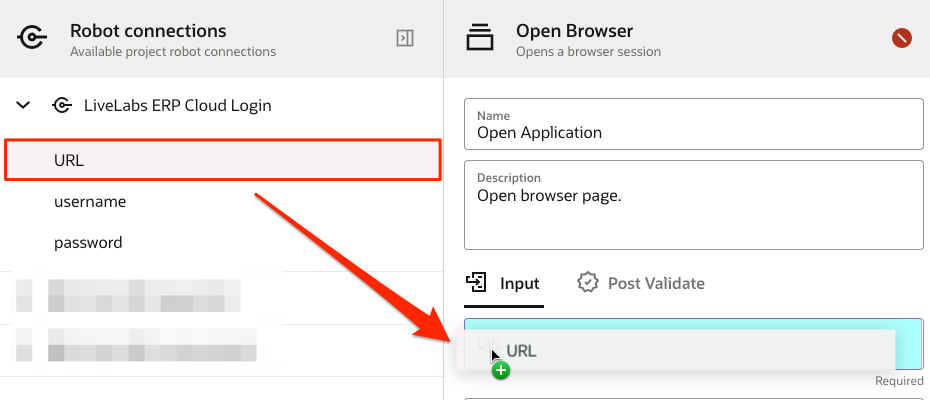
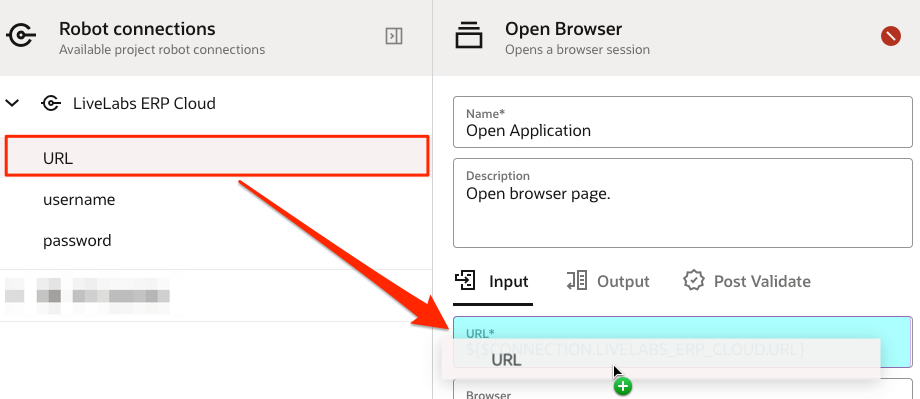
RPA updates

diff --git a/oic-gen3/experiential/get-started-rpa/workshops/tenancy/index.html b/oic-gen3/experiential/get-started-rpa/workshops/tenancy/index.html
@@ -1,0 +1,62 @@
+<!DOCTYPE html>
+<html lang="en">
+
+<head>
+    <meta charset="utf-8">
+    <meta http-equiv="X-UA-Compatible" content="IE=edge">
+    <meta name="viewport" content="width=device-width, initial-scale=1">
+    <meta name="description" content="Oracle LiveLabs gives you access to Oracle's products to run a wide variety of labs and workshops; allowing you to experience our best technology, live!">
+    <title>Oracle LiveLabs</title>
+
+    <script src="https://oracle-livelabs.github.io/common/redwood-hol/js/jquery-1.11.0.min.js"></script>
+    <script src="https://oracle-livelabs.github.io/common/redwood-hol/js/jquery-ui-1.10.4.custom.js"></script>
+    <script src="https://oracle-livelabs.github.io/common/redwood-hol/js/main.min.js"></script>
+
+    <link rel="stylesheet" href="https://oracle-livelabs.github.io/common/redwood-hol/css/style.min.css" />
+    <link rel="shortcut icon" href="https://oracle-livelabs.github.io/common/redwood-hol/img/favicon.ico" />
+</head>
+
+<body>
+    <header class="hol-Header" role="banner">
+        <div class="hol-Header-wrap">
+            <div class="hol-Header-logo"><span>Oracle LiveLabs</span></div>
+            <a href="https://oracle.com/livelabs" target="_blank" id="livelabs" title="Oracle LiveLabs"></a>
+            <div class="hol-Header-actions">
+                <button id="openNav" class="hol-Header-button hol-Header-button--menu rightNav" aria-label="Open Menu"
+                    title="Open Menu">
+                    <span class="hol-Header-toggleIcon"></span>
+                </button>
+            </div>
+        </div>
+    </header>
+
+    <div id="container">
+        <div id="leftNav">
+            <div id="toc"></div>
+        </div>
+        <div id="contentBox">
+            <main class="hol-Content" id="module-content"></main>
+        </div>
+    </div>
+
+      <footer class="hol-Footer">
+        <a class="hol-Footer-topLink" href="#top">Return to Top</a>
+        <div id="footer-banner"><div class="footer-row">
+          <div class="footer-content"><ul class="footer-links">
+              <li><a href="https://docs.oracle.com/pls/topic/lookup?ctx=en/legal&id=cpyr" target="_blank" aria-label="Open a new window to Oracle legal notices" data-lbl="copyright">© Oracle</a></li>
+              <li><a href="https://www.oracle.com/corporate/index.html" target="_blank" aria-label="Open a new window to learn more about oracle" data-lbl="about-oracle">About Oracle</a></li>
+              <li><a href="https://www.oracle.com/corporate/contact/" target="_blank" aria-label="Open a new window to contact oracle" data-lbl="contact-us">Contact Us</a></li>
+              <li class="footer-links-break"></li>
+              <li><a href="https://docs.oracle.com/en/browseall.html" target="_blank" aria-label="Open a new window to products a-z" data-lbl="products-a-z">Products A-Z</a></li>
+              <li><a href="https://www.oracle.com/legal/privacy/" target="_blank" aria-label="Open a new window to read more about Oracle terms of use and privacy" data-lbl="terms-of-use-and-privacy">Terms of Use & Privacy</a></li>
+              <li><a href="https://www.oracle.com/legal/privacy/privacy-policy.html#11" target="_blank" aria-label="Open a new window to read more about managing Oracle cookie preferences" data-lbl="cookie-preferences">Cookie Preferences</a></li>
+              <li><a href="https://www.oracle.com/legal/privacy/marketing-cloud-data-cloud-privacy-policy.html#adchoices" target="_blank" aria-label="Open a new window to ad choices" data-lbl="ad-choices">Ad Choices</a></li>
+              <li class="footer-links-break"></li><li class="last"><a href="https://docs.oracle.com/pls/topic/lookup?ctx=en/legal&id=cpyr" target="_blank" aria-label="Open a new window to Oracle legal notices" data-lbl="copyright">© Oracle</a></li>
+            </ul>
+          </div>
+        </div>
+      </div>
+    </footer>
+</body>
+
+</html>

diff --git a/oic-gen3/experiential/get-started-rpa/create-robot-flow/create-robot-flow.md b/oic-gen3/experiential/get-started-rpa/create-robot-flow/create-robot-flow.md
@@ -12,6 +12,7 @@ In this lab, you will:
 This lab assumes you have:
 
 * Completed the Robot Connections
+* A Chrome browser
 
 ## Task 1: Create a Robot
 
@@ -31,7 +32,8 @@ When you create a robot, you define its trigger and the actions that the robot p
     | Keywords      | No  | Enter text that people might use to search for the robot. |
     | | | |
 
-    ![Create robot flow panel](images/create-robot-add.png " ")
+    | ![Create robot flow panel](images/create-robot-add.png " ") |
+    |-|
 
 4. Click **Create**.
 
@@ -58,62 +60,142 @@ The trigger defines the interface for the robot, including the input (incoming r
 
 4. Click **OK**.
 
-
-
 ## Task 3: Define Open Application Action
 
-This action tells the robot to open a web browser and navigate to the Oracle ERP Cloud sign-in page. We will define a Robot Connection, based on a Robot Connection Type, containing the URL and credentials to the ERP Cloud login page.
+This action tells the robot to open a web browser and navigate to the Oracle ERP Cloud sign-in page. We will use the robot connection created in the previous lab to pull the service URL and credentials.
 
 1. Double-click on the **Open Application** action.
 
-    ![Select robot connections button](images/robot-designer_open-browser_edit.png " ")
+    | ![Select robot connections button](images/robot-designer_open-browser_edit.png " ") |
+    |-|
 
 2. In the **Open Browser** panel, keep the default values for **Name** and **Description**.
 
 3. We will assign the target URL dynamically using a Robot Connection. On the **Input** tab, select within the **URL** field and click on the **Robot connections** icon ![Select robot connections button](images/robot-connections-button.png " ").
 
-    The **Robot connections** side panel will appear, without any available robot connections.
+    The **Robot connections** side panel will appear, with the previously created robot connection.
 
-4. On the **Robot connections** side panel, create a new connection to the target page by clicking on **+ (Add)**.
-
-5. On the **Create robot connection** panel, select the Default connection type **Oracle RPA Web Login**.
-
-    ![Create robot flow panel](images/create-robot-connection_select-type.png " ").
-
-6. In the **Create robot connection - Oracle RPA web login** panel, fill in the following fields:
-    | **Field** | **Required** | **Value** |
-    | --- | ----------- | ----------- |
-    | Name        | Yes | Enter a name for the login page. <br> For example: `LiveLabs ERP Cloud Login` |
-    | Identifier  | Yes | This entry is autogenerated based on the Name value.  |
-    | Description | No  | Provide additional information about the robot connection.|
-    | URL         | Yes | Enter your ERP Cloud login URL. Please follow this format: <br>`https://<your-erp-cloud-hostname>/fscmUI/faces/FuseWelcome?fndThemeName=Vision_Default`  |
-    | Username    | Yes  | Enter a valid ERP username.|
-    | Password    | Yes  | Enter a valid ERP password for the selected user. |
-    | | | |
-
-    ![Create robot flow panel](images/create-robot-connection_configured.png " ")
-
-7. Click **Create**.
-
-8. Returning to the **Robot connections** side panel, expand the newly created Robot Connection. Next, drag the **URL** parameter to the matching field under the **Input** tab.
+4. Returning to the **Robot connections** side panel, expand the newly created Robot Connection. Next, drag the **URL** parameter to the matching field under the **Input** tab.
 
     ![Drag the URL parameter to the Input tab](images/robot-designer_open-browser_assign-url.png " ")
 
-9. Under **Browser**, select the browser which will be used by the robot flow. Keep all other values as default.
+5. Under **Browser**, select the browser which will be used by the robot flow. Keep all other values as default.
 
-10. Click **OK** when done, then **Save**.
+6. Click **OK** when done, then **Save**.
 
-## Task 4: Add Robot Login Action using the Record option
+## Task 4: Install the Robot Recorder
+
+The robot recorder is a Google Chrome browser plugin that is used to build robot flows. This extension must be installed to continue with this workshop.
+
+1. From the Robot designer, click on the red **Update** button
+
+2. Click the button **Download browser extension**.
+    ![Click extension Update button](images/robot-designer_update-browser-extension.png " ")
+
+    The extension file (ZIP) is downloaded to the default downloads folder.
+
+3. Navigate to the location where the ZIP file downloaded, such as your **Downloads** folder.
+
+4. Extract the ZIP file in the same folder.
+
+5. In Google Chrome, open the **Extensions** menu, and select **Manage Extensions**.
+
+6. On the Google Chrome Extensions page, select **Load unpacked**.
+
+7. Navigate to the folder containing the unzipped files, select the *target* folder, and click on **Select Folder**.
+
+    This loads the Robot Extension in your Chrome browser.
+
+    ![Show loaded Robot Extension in Chrome browser](images/robot-designer_loaded-browser-extension.png)
+
+After installing the browser extension, we can start adding robot actions.
+
+## Task 5: Add Login Action
+
+Start the robot flow by adding the Login action.
+
+1. On the Robot Designer canvas, hover over the **Open Application** action and click on the **+** which appears below it.
+![Add Open Application action](images/robot-designer_open-application_add-action.png " ")
+
+    A menu of available actions appears.
+
+2. From the **Actions** tab, select the **Login** action.
+![Add Login action](images/robot-designer_open-application_add-login.png " ")
+
+    The **Login** action appears on the canvas.
+
+3. On the **Login** panel, within the **Username** field, select **Robot connections**
+![Select robot connections](images/robot-connections-button.png "=20x*"). On the Robot connections side panel, expand the created robot connection and drag the `username` parameter to the **Username** field.
+![Assign username](images/robot-designer_login_assign-username.png "")
+
+4. Repeat these steps by dragging the `password` parameter to the **Password** field.
+
+    Next, we will specify input details for Username and Password actions.
+
+5. In another browser window, open the sign-in page for the Oracle Fusion environment that the robot will work in. Here's an example environment URL:
+`https://eeho.fa.us2.oraclecloud.com/fscmUI/faces/FuseWelcome`
+
+6. Return to the **Login** panel on the Robot window, click within the **Username locator** field, and select **Target a page element** ![Target a page element button](images/robot-taget-page-button.png).
+
+7. On the **Target a page element** panel, select the target browser window to the Oracle Fusion login page. The title will be `Sign In`.
+
+    ![Robot input username locator select](images/robot-input_username-locator_select.png)
+
+    This starts the design Targeting on the ERP Cloud login page. This component pops up at the bottom of the Fusion Application window:
+
+    ![Robot design Targeting](images/robot-designer_targeting-on.png "")
+
+8. On the Oracle Fusion login page, point to the `User ID` field where the robot will enter the user name. Wait until the target icon appears, the field turns green, and your mouse icon changes to a hand before selecting the UI element.
+
+    ![Robot input username locator select](images/robot-designer_smart-record_select-user-id.png "")
+
+    The Targeting maps the `User ID` UI element value to the **Username locator** field in the robot.
+
+    ![Robot input username locator select](images/robot-designer_smart-record_username-locator_mapped.png "")
+
+9. Repeat the previous steps for the following fields:
+
+    * **Password locator**: Select the `password` UI element.
+    * **Submit locator**: Select the `Sign In` button that the robot clicks to sign in to the Oracle Fusion application.
+
+10. Click **OK**.
+
+11. Above the Robot canvas, click **Save**.
+
+
+
+
+
+
+    This adds an action `Enter "User ID" Text` to the robot flow.
+
+    > **Note:** When using the recorder, wait until the target icon appears, the field turns green, and your mouse icon changes to a hand before selecting the UI element.
+
+    Next we set the **Value** field by mapping the **Username** input variable.
+
+ **Target a page element** panel, check **Create target** option and select `Sign In`.
+
+    This starts the recorder on the ERP Cloud login page.
+
+6. On the **RPA Smart Recording** panel, click on **Begin Recording**.
+
+    We will now select field elements to generate associated Actions in the robot flow.
+
+7. 
+
+
+
+## Task 5: Add Robot Login Action using the Record option
 
 Build the robot flow by adding actions using the recorder.
 
-1. Open a new browser tab and navigate to the login page of ERP Cloud. This is the URL value which was set in the web login panel.
+1. Open a new browser window and navigate to the login page of ERP Cloud. This is the URL value which was set in the web login panel.
 
     ![ERP Cloud login](images/robot-designer_erp-login.png " ")
 
-2. Return to the browser tab running the robot designer. Select the **Open Application** action. This will enable the record button. ![Record button enabled](images/robot-designer_record-button.png " ")
+2. Return to the browser tab running the robot designer. Select the **Open Application** action (don't double-click). Selecting the actions enables the record button. ![Record button enabled](images/robot-designer_record-button.png " ")
 
-3. On the **Smart Record** panel, click **Select browser tab to target**. 
+3. On the **Smart Record** panel, click **Select browser tab to target**.
 
     ![Select browser tab](images/robot-designer_smart-record_select-browser.png " ")
 
@@ -177,7 +259,7 @@ Continue the robot flow by adding actions from ERP Cloud using the recorder. Aft
 
 4. On the side panel, go to the **Orders** section and click on **Manage Orders** when the icon changes to a target. In the **Action Details**, keep all values as default and click **Save**. This will add the `Click "Manage Orders"` action and move to the Manage Orders page.
 
-    Next, we will search for a specific Purchase Order by providing an order number. 
+    Next, we will search for a specific Purchase Order by providing an order number.
 
 5. Move to the **Order** field and select the UI element when the icon changes to a target. Enter the following values in the **Action Details**.
 
@@ -194,13 +276,13 @@ Continue the robot flow by adding actions from ERP Cloud using the recorder. Aft
 8. For the listed purchase order, move to the **Supplier** column and select the supplier name after the icon changes to a target. Enter the following values in the **Action Details**.
     * Name: `Click "Get supplier name"`
     * Action: Get Text
-    * Save To: Select ![Select Flow button](images/action-details_po-number_flow-button.png " ") **(Flow Input/Output)**, switch to **Output** and double-click on **SupplierName**. 
+    * Save To: Select ![Select Flow button](images/action-details_po-number_flow-button.png " ") **(Flow Input/Output)**, switch to **Output** and double-click on **SupplierName**.
 
 9. Click **Save**.
 
 10. In the "Smart Recording" panel, click on ![Smart Recording stop button](images/smart-recording_stop-button.png " ") **(Stop recording)** to end the recording.
 
-11. In the **Robot Designer**, click on **Save**. 
+11. In the **Robot Designer**, click on **Save**.
 
 12. Close the robot designer by clicking on the **< (Go back)** button on the top left of the screen.
 
@@ -214,7 +296,7 @@ Continue the robot flow by adding actions from ERP Cloud using the recorder. Aft
 
 15. For the selected robot, click on **...** and select **Activate**.
 
-
 ## Acknowledgements
+
 * **Author** - Ravi Chablani, Principal Product Manager - Oracle Integration
 * **Last Updated By/Date** - Ravi Chablani, March 2024

diff --git a/oic-gen3/experiential/get-started-rpa/install-robot-recorder/install-robot-browser-extension.md b/oic-gen3/experiential/get-started-rpa/install-robot-recorder/install-robot-browser-extension.md
@@ -1,0 +1,32 @@
+# Install Robot Designer Browser Extension
+The browser extension is a Google Chrome browser plugin that is used to build robot flows.
+
+## Introduction
+
+This lab walks you through the steps to download and install a robot browser extension.
+
+### Objectives
+
+In this lab, you will:
+
+* Obtain and install the Chrome browser extension
+
+### Prerequisites
+
+The lab assumes you have:
+
+* A Chrome browser
+* Access to install browser extension
+
+## Task 1: Download browser extension
+
+Download the extension from the Google Chrome browser.
+
+1. In the navigation pane, select **Projects** and then click on the project created in the previous lab.
+
+
+
+## Acknowledgements
+
+* **Author** - Ravi Chablani, Principal Product Manager - Oracle Integration
+* **Last Updated By/Date** - Ravi Chablani, April 2024
